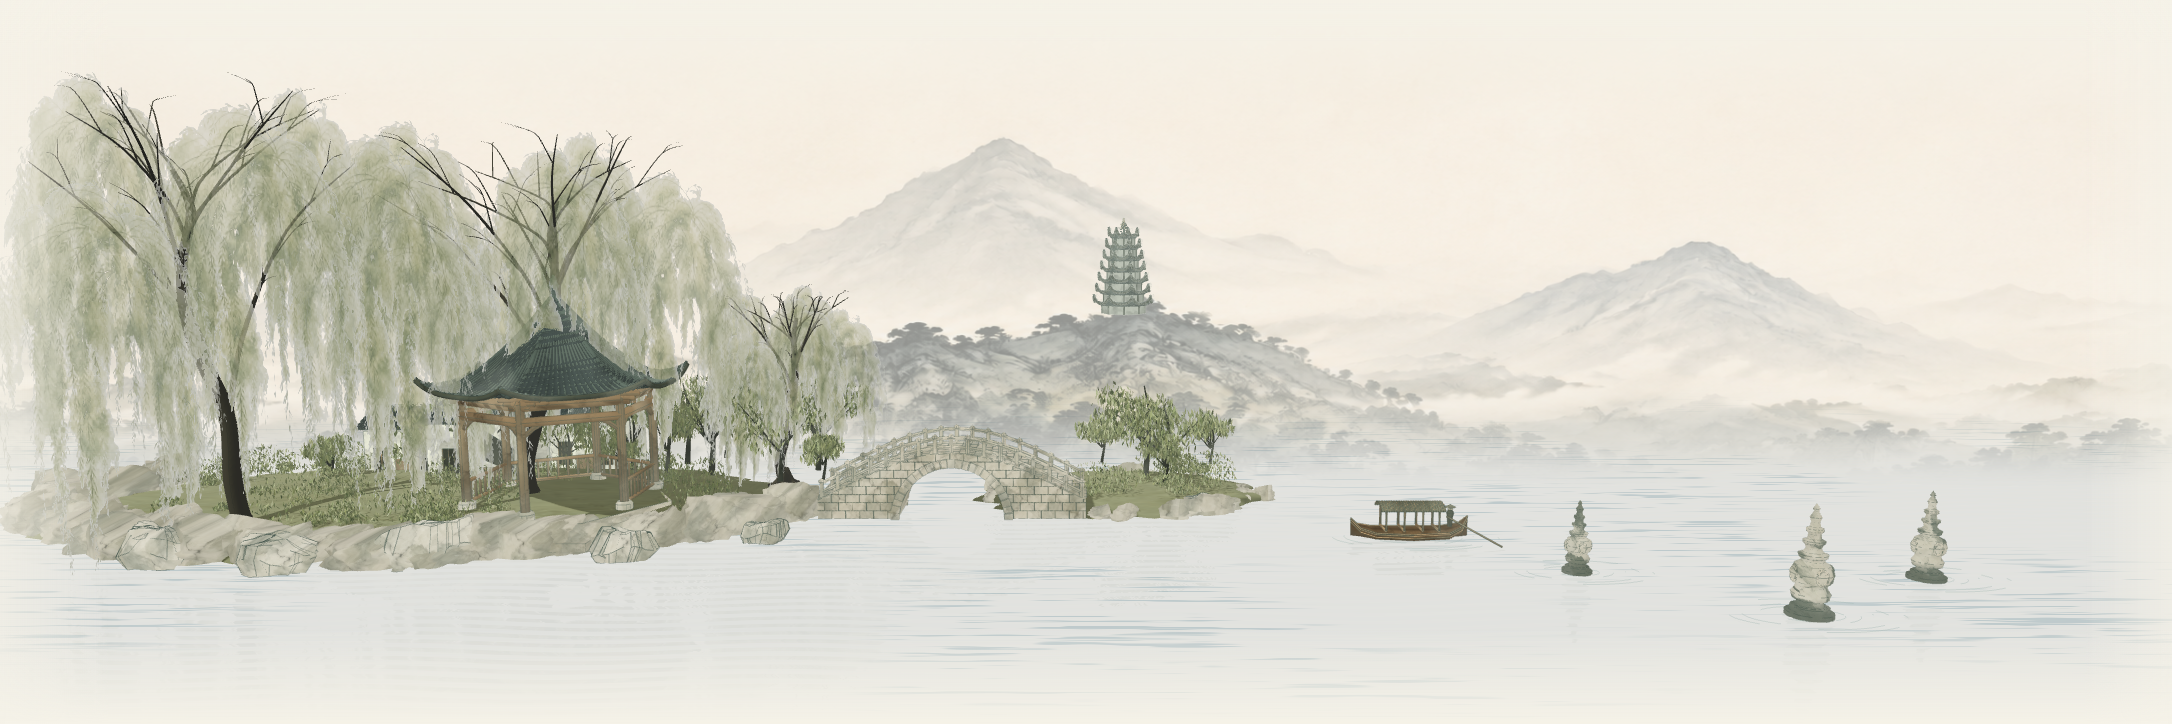
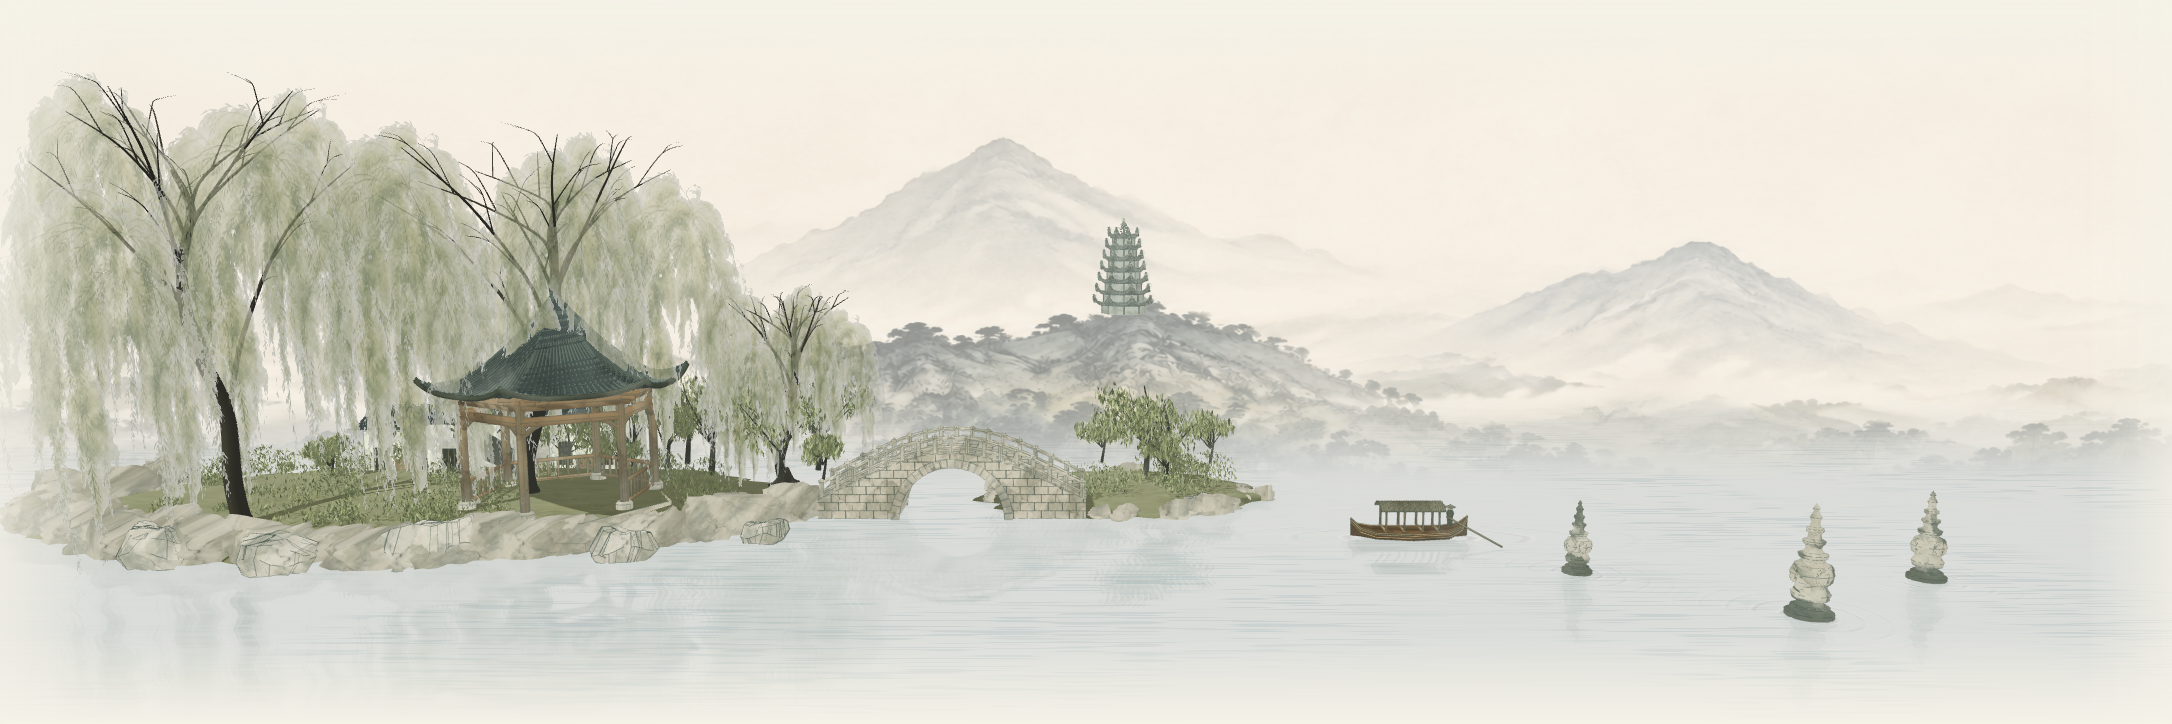
Improve lake reflections and animate surface ripples

diff --git a/projects/west-lake/main.js b/projects/west-lake/main.js
@@ -495,39 +495,131 @@ leaves.castShadow = true;
 leaves.receiveShadow = true;
 scene.add(leaves);
 
+// One surface owns reflections, capillary waves, contact shading and ripples.
+// Keeping the ripples here avoids static line geometry being reflected twice.
 const waterShader = structuredClone(Reflector.ReflectorShader);
 waterShader.uniforms = THREE.UniformsUtils.clone(
   Reflector.ReflectorShader.uniforms,
 );
 waterShader.uniforms.time = { value: 0 };
+waterShader.uniforms.reflectionTexel = {
+  value: new THREE.Vector2(1 / 1536, 1 / 768),
+};
 waterShader.vertexShader = waterShader.vertexShader
   .replace("varying vec4 vUv;", "varying vec4 vUv; varying vec3 worldPos;")
   .replace(
     "vUv = textureMatrix",
     "worldPos = (modelMatrix * vec4(position, 1.0)).xyz; vUv = textureMatrix",
   );
-waterShader.fragmentShader = `uniform vec3 color; uniform sampler2D tDiffuse; uniform float time; varying vec4 vUv; varying vec3 worldPos;
-#include <common>
-float hash21(vec2 p){return fract(sin(dot(p,vec2(127.1,311.7)))*43758.5453);}
-float waterNoise(vec2 p){vec2 i=floor(p),f=fract(p);f=f*f*(3.0-2.0*f);return mix(mix(hash21(i),hash21(i+vec2(1,0)),f.x),mix(hash21(i+vec2(0,1)),hash21(i+1.0),f.x),f.y);}
-void main(){
- vec2 p=worldPos.xz; float w=sin(p.y*5.0+p.x*.7-time*.7)*.42+sin(p.y*11.0-p.x*1.3+time*.5)*.2+sin(p.y*21.0+p.x*2.2-time*.8)*.10;
- vec2 uv=vUv.xy/vUv.w; uv.x+=w*.002;uv.y+=w*.0015;
- vec3 reflected=texture2D(tDiffuse,uv).rgb;
- float streak=pow(max(0.0,sin(p.y*13.0+sin(p.x*.45+time*.12)*2.0+time*.4)),16.0);
- float band = smoothstep(-.3,.55,sin(p.y*7.0+sin(p.x*.42)*2.0));
-float washBand=waterNoise(vec2(p.x*.25,p.y*4.0-time*.08))*.65+waterNoise(vec2(p.x*.65+12.0,p.y*8.0))* .35;
- float clustered=waterNoise(p*.075+vec2(13.0,7.0));
- float inkBand=smoothstep(.61,.8,washBand)*smoothstep(.3,.6,clustered);
- vec3 col=mix(vec3(.77,.83,.78),reflected,.04+.24*band)+streak*.009+w*.007;
- col=mix(col,vec3(.35,.49,.49),inkBand*.36);
+waterShader.fragmentShader = /* glsl */ `
+  uniform sampler2D tDiffuse;
+  uniform vec2 reflectionTexel;
+  uniform float time;
+  varying vec4 vUv;
+  varying vec3 worldPos;
+  #include <common>
 
- gl_FragColor=vec4(col,1.0);
- #include <tonemapping_fragment>
- #include <colorspace_fragment>
- gl_FragColor.rgb=mix(gl_FragColor.rgb,vec3(.968,.955,.923),.23);
- gl_FragColor.rgb-=vec3(.11,.075,.055)*inkBand;
-}`;
+  float hash21(vec2 p) {
+    return fract(sin(dot(p, vec2(127.1, 311.7))) * 43758.5453);
+  }
+
+  float waterNoise(vec2 p) {
+    vec2 cell = floor(p);
+    vec2 f = fract(p);
+    f = f * f * (3.0 - 2.0 * f);
+    return mix(
+      mix(hash21(cell), hash21(cell + vec2(1.0, 0.0)), f.x),
+      mix(hash21(cell + vec2(0.0, 1.0)), hash21(cell + 1.0), f.x),
+      f.y
+    );
+  }
+
+  // xy: surface slope; zw: dark and light sides of an outward-moving crest.
+  vec4 objectRipple(vec2 p, vec2 center, vec2 shape, float radius, float phaseOffset) {
+    vec2 offset = (p - center) / shape;
+    float distanceToCenter = length(offset);
+    float distanceFromEdge = max(0.0, distanceToCenter - radius);
+    if (distanceFromEdge > 7.0) return vec4(0.0);
+
+    vec2 direction = offset / max(distanceToCenter, 0.001);
+    float envelope = exp(-distanceFromEdge * 0.63)
+      * smoothstep(radius * 0.82, radius + 0.18, distanceToCenter);
+    float arc = smoothstep(0.24, 0.72,
+      waterNoise(direction * 3.6 + phaseOffset + vec2(time * 0.025, 0.0)));
+    float phase = distanceFromEdge * 6.4 - time * 1.45 + phaseOffset;
+    phase += waterNoise(direction * 5.0 + phaseOffset) * 0.8;
+    float aa = min(0.16, fwidth(phase));
+    float darkCrest = smoothstep(0.88 - aa, 1.0, cos(phase));
+    float lightCrest = smoothstep(0.88 - aa, 1.0, cos(phase - 0.48));
+    vec2 slope = direction / shape * sin(phase) * envelope * 0.12;
+    return vec4(slope, darkCrest * envelope * arc, lightCrest * envelope * arc);
+  }
+
+  vec3 softReflection(vec2 uv, float roughness) {
+    vec2 blur = reflectionTexel * vec2(2.8 + roughness * 4.0, 0.65);
+    return texture2D(tDiffuse, uv).rgb * 0.4
+      + texture2D(tDiffuse, uv + vec2(blur.x, 0.0)).rgb * 0.2
+      + texture2D(tDiffuse, uv - vec2(blur.x, 0.0)).rgb * 0.2
+      + texture2D(tDiffuse, uv + vec2(0.0, blur.y)).rgb * 0.1
+      + texture2D(tDiffuse, uv - vec2(0.0, blur.y)).rgb * 0.1;
+  }
+
+  void main() {
+    vec2 p = worldPos.xz;
+    float swell = sin(p.x * 0.28 + p.y * 1.45 - time * 0.55);
+    float crossing = sin(p.x * 0.73 - p.y * 2.5 + time * 0.8);
+    vec2 slope = vec2(swell * 0.38 + crossing * 0.13,
+      sin(p.y * 3.7 + p.x * 0.2 - time * 0.7) * 0.4);
+
+    vec4 ripples = objectRipple(p, vec2(22.0, 9.0), vec2(1.0), 0.62, 0.4);
+    ripples += objectRipple(p, vec2(29.0, 15.0), vec2(1.0), 0.9, 2.6);
+    ripples += objectRipple(p, vec2(37.0, 10.0), vec2(1.0), 0.77, 4.7);
+    ripples += objectRipple(p, vec2(16.0, 3.0), vec2(2.75, 0.85), 0.96, 1.8);
+    slope += ripples.xy;
+
+    vec2 uv = vUv.xy / vUv.w + slope * vec2(0.0032, 0.0021);
+    float roughness = waterNoise(p * 0.18 + time * 0.025);
+    vec3 reflected = softReflection(uv, roughness);
+    vec3 surfaceNormal = normalize(vec3(-slope.x * 0.065, 1.0, -slope.y * 0.065));
+    vec3 viewDirection = normalize(cameraPosition - worldPos);
+    float grazing = pow(1.0 - clamp(dot(surfaceNormal, viewDirection), 0.0, 1.0), 3.0);
+
+    // Ripples distort recognizable silhouettes rather than replacing them with stripes.
+    float reflectionBreak = waterNoise(vec2(p.x * 0.36, p.y * 5.0 - time * 0.1));
+    float reflectionWeight = mix(0.3, 0.58, grazing)
+      * mix(0.62, 1.0, smoothstep(0.24, 0.7, reflectionBreak));
+    float distanceHaze = smoothstep(60.0, 160.0, length(cameraPosition - worldPos));
+    vec3 waterTint = mix(vec3(0.61, 0.71, 0.68), vec3(0.79, 0.81, 0.75), distanceHaze * 0.6);
+    float reflectedLuminance = dot(reflected, vec3(0.2126, 0.7152, 0.0722));
+    float reflectedSubject = smoothstep(0.04, 0.36, 0.87 - reflectedLuminance);
+    // Do not modulate empty sky reflections: that turns the whole lake into a line field.
+    vec3 color = mix(waterTint, reflected, reflectionWeight * reflectedSubject);
+    color += (waterNoise(p * 0.065 + time * 0.01) - 0.5) * vec3(0.012, 0.016, 0.014);
+
+    // Sparse, differently sized pigment marks leave calm open water between clusters.
+    vec2 flow = p + vec2(waterNoise(p * 0.09) * 1.6,
+      waterNoise(p * 0.08 + 7.0) * 0.24);
+    float smallMarks = waterNoise(flow * vec2(0.42, 7.5) - vec2(time * 0.01, time * 0.065));
+    float clusters = waterNoise(flow * 0.12 + 9.0);
+    float pigment = smoothstep(0.56, 0.8, smallMarks) * smoothstep(0.3, 0.67, clusters);
+    color = mix(color, vec3(0.32, 0.48, 0.46), pigment * 0.3);
+
+    float leftBank = abs(length((p - vec2(-35.0, -3.0)) / vec2(20.0, 10.0)) - 1.0) * 10.0;
+    float rightBank = abs(length((p - vec2(2.0, -6.0)) / vec2(8.0, 5.0)) - 1.0) * 5.0;
+    float bankContact = exp(-min(leftBank, rightBank) * 2.0);
+    color = mix(color, vec3(0.38, 0.5, 0.43), bankContact * 0.16);
+    color -= ripples.z * vec3(0.16, 0.18, 0.165);
+    color += ripples.w * vec3(0.16, 0.15, 0.12);
+
+    gl_FragColor = vec4(color, 1.0);
+    #include <tonemapping_fragment>
+    #include <colorspace_fragment>
+    gl_FragColor.rgb = mix(gl_FragColor.rgb, vec3(0.968, 0.955, 0.923), 0.1);
+    gl_FragColor.rgb -= ripples.z * vec3(0.035, 0.045, 0.043);
+    gl_FragColor.rgb += ripples.w * vec3(0.018, 0.02, 0.018);
+    gl_FragColor.rgb -= pigment * vec3(0.035, 0.025, 0.018);
+  }
+`;
 const water = new Reflector(new THREE.PlaneGeometry(550, 550), {
   textureWidth: 1536,
   textureHeight: 768,
@@ -535,48 +627,11 @@ const water = new Reflector(new THREE.PlaneGeometry(550, 550), {
   shader: waterShader,
   multisample: 0,
 });
+water.name = "lake-water";
 water.material.depthWrite = false;
 water.rotation.x = -Math.PI / 2;
 water.position.y = -0.04;
 scene.add(water);
-const ripplePositions = [];
-for (const [x, z, r] of [
-  [22, 9, 1],
-  [29, 15, 1.4],
-  [37, 10, 1.15],
-  [16, 3, 2],
-])
-  for (let k = 0; k < 5; k++)
-    for (let j = 0; j < 96; j++) {
-      if (Math.sin(j * 0.09 + k * 1.8) + Math.sin(j * 0.23 - k * 0.8) < 0.48)
-        continue;
-      let a = (j / 96) * Math.PI * 2,
-        b = ((j + 1) / 96) * Math.PI * 2,
-        rr = r + k * 0.6;
-      ripplePositions.push(
-        x + Math.cos(a) * rr,
-        0.005,
-        z + Math.sin(a) * rr * 0.55,
-        x + Math.cos(b) * rr,
-        0.005,
-        z + Math.sin(b) * rr * 0.55,
-      );
-    }
-const rg = new THREE.BufferGeometry();
-rg.setAttribute(
-  "position",
-  new THREE.Float32BufferAttribute(ripplePositions, 3),
-);
-scene.add(
-  new THREE.LineSegments(
-    rg,
-    new THREE.LineBasicMaterial({
-      color: "#8da5a0",
-      transparent: true,
-      opacity: 0.42,
-    }),
-  ),
-);
 
 try {
   const gltf = await new GLTFLoader().loadAsync(`${assetBase}architecture.glb`);
